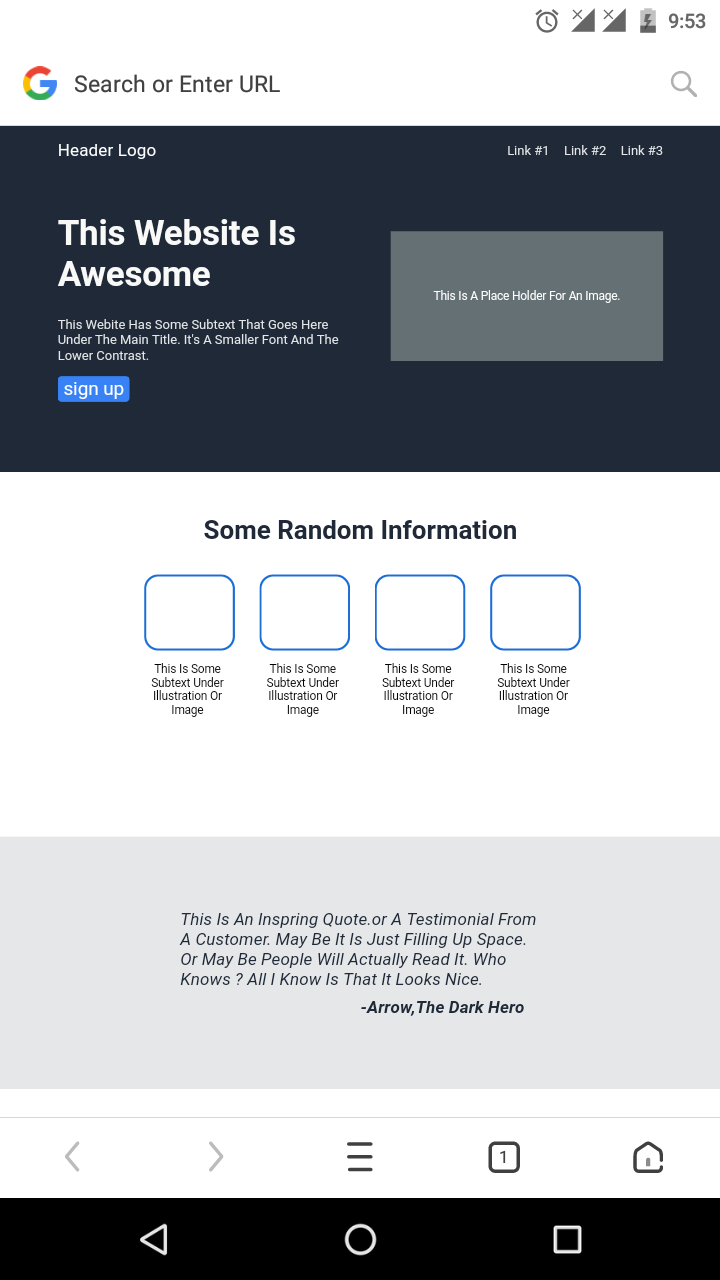
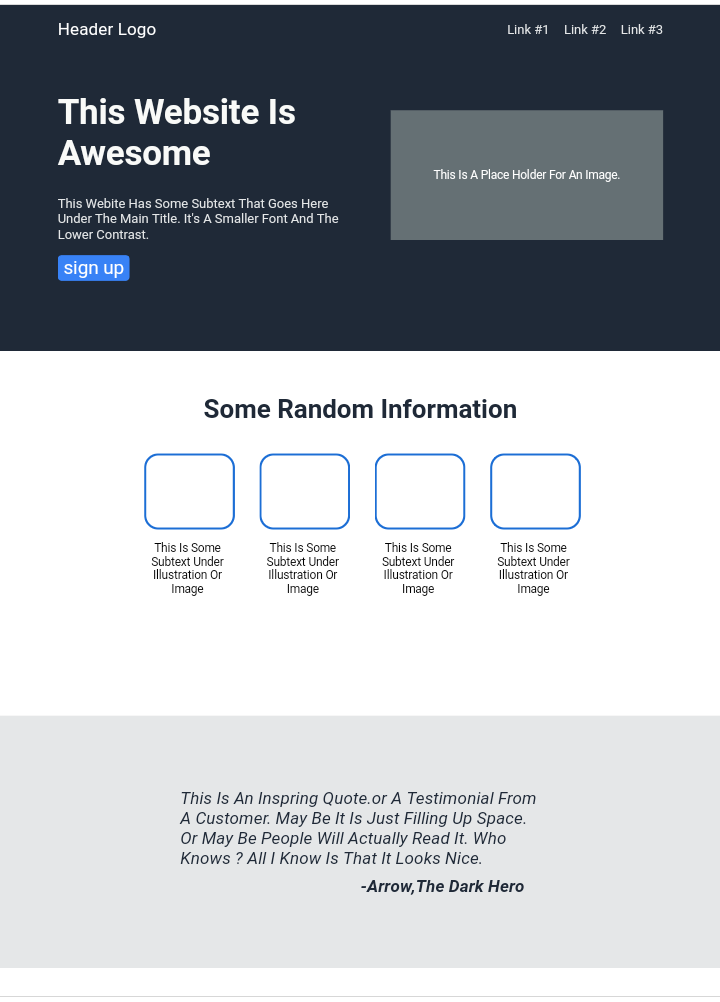
index file problem solved. screen shot croped.now it is ready to use.

diff --git a/README.md b/README.md
@@ -7,4 +7,4 @@
 
 
 ## outcome image
-![code reault: ](./result.png).
+![code result: ](./result.png).
